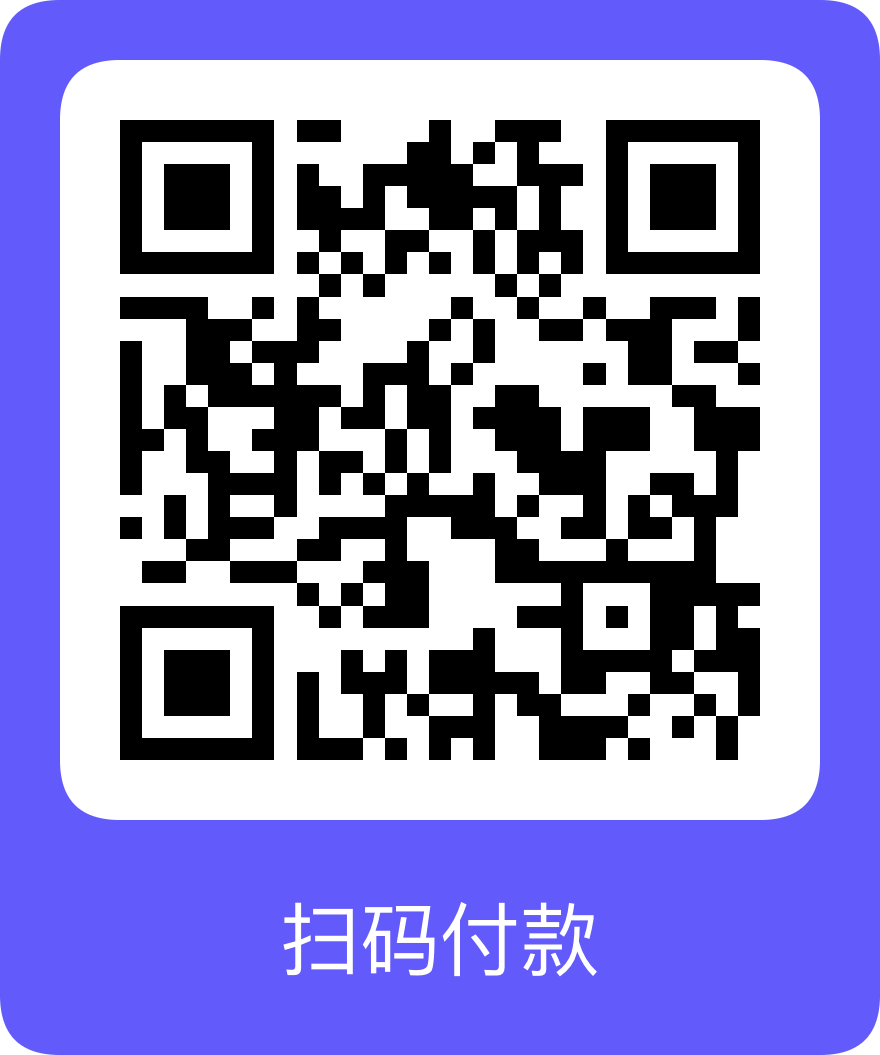
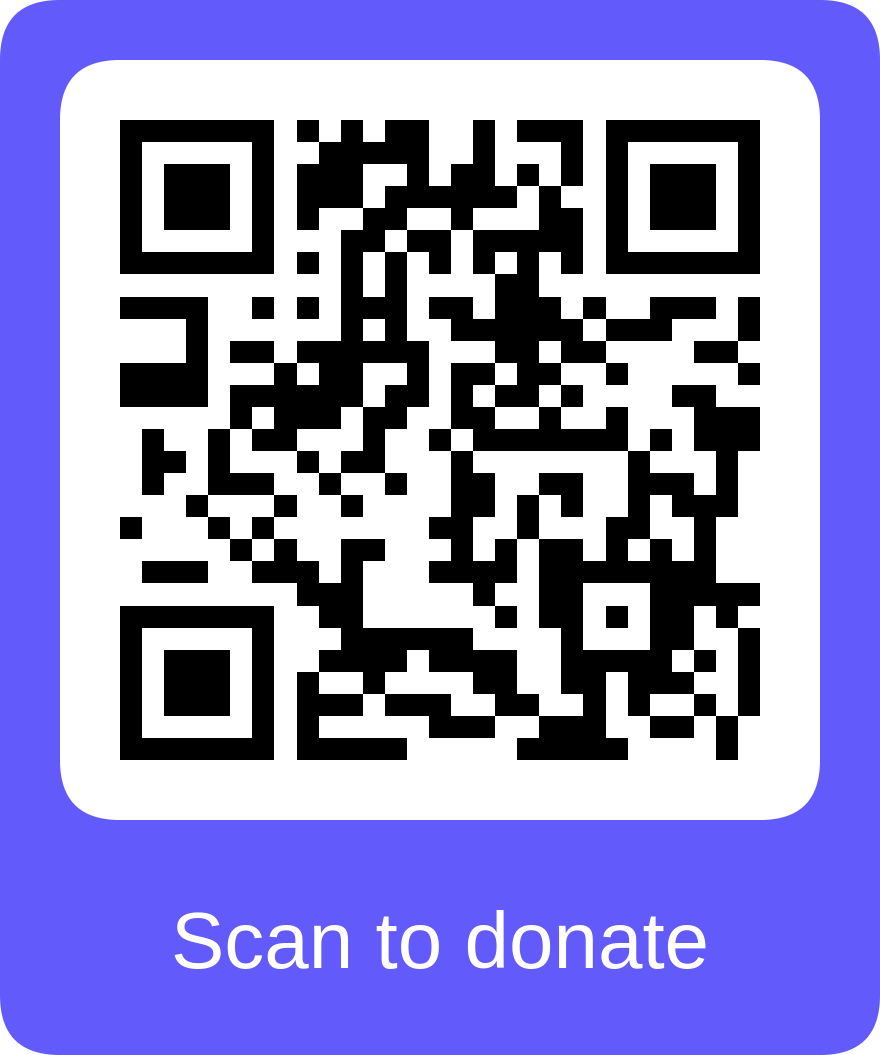
Change Stripe link to another account (#225)

Changed region(s): [[0.1227, 0.091, 0.767, 0.728], [0.1841, 0.8493, 0.7977, 0.9403], [0.7977, 0.5763, 0.8591, 0.637]]

diff --git a/README.md b/README.md
@@ -113,10 +113,10 @@ For supervisor, Docker sections or detailed Nginx configuration, please read our
 If you find this project useful, please consider supporting
 us by [becoming a sponsor](https://github.com/sponsors/webp-sh) or Stripe
 
-| USD(Card, Apple Pay and Google Pay)              | SEK(Card, Apple Pay and Google Pay)              | CNY(Card, Apple Pay, Google Pay and Alipay)      |
+| USD(Card, Apple Pay and Google Pay)              | EUR(Card, Apple Pay and Google Pay)              | CNY(Card, Apple Pay, Google Pay and Alipay)      |
 |--------------------------------------------------|--------------------------------------------------|--------------------------------------------------|
-| [USD](https://buy.stripe.com/cN203sdZB98RevC3cd) | [SEK](https://buy.stripe.com/bIYbMa9JletbevCaEE) | [CNY](https://buy.stripe.com/dR67vU4p13Ox73a6oq) |
-| ![](pics/USD.png)                                | ![](pics/SEK.png)                                | ![](pics/CNY.png)                                |
+| [USD](https://donate.stripe.com/4gwfZn2RDgag0bScMN) | [EUR](https://donate.stripe.com/28odRfgItgage2IfZ0) | [CNY](https://donate.stripe.com/00geVj8bX3nuf6MeUU) |
+| ![](pics/USD.png)                                | ![](pics/EUR.png)                                | ![](pics/CNY.png)                                |
 
 ## License
 
